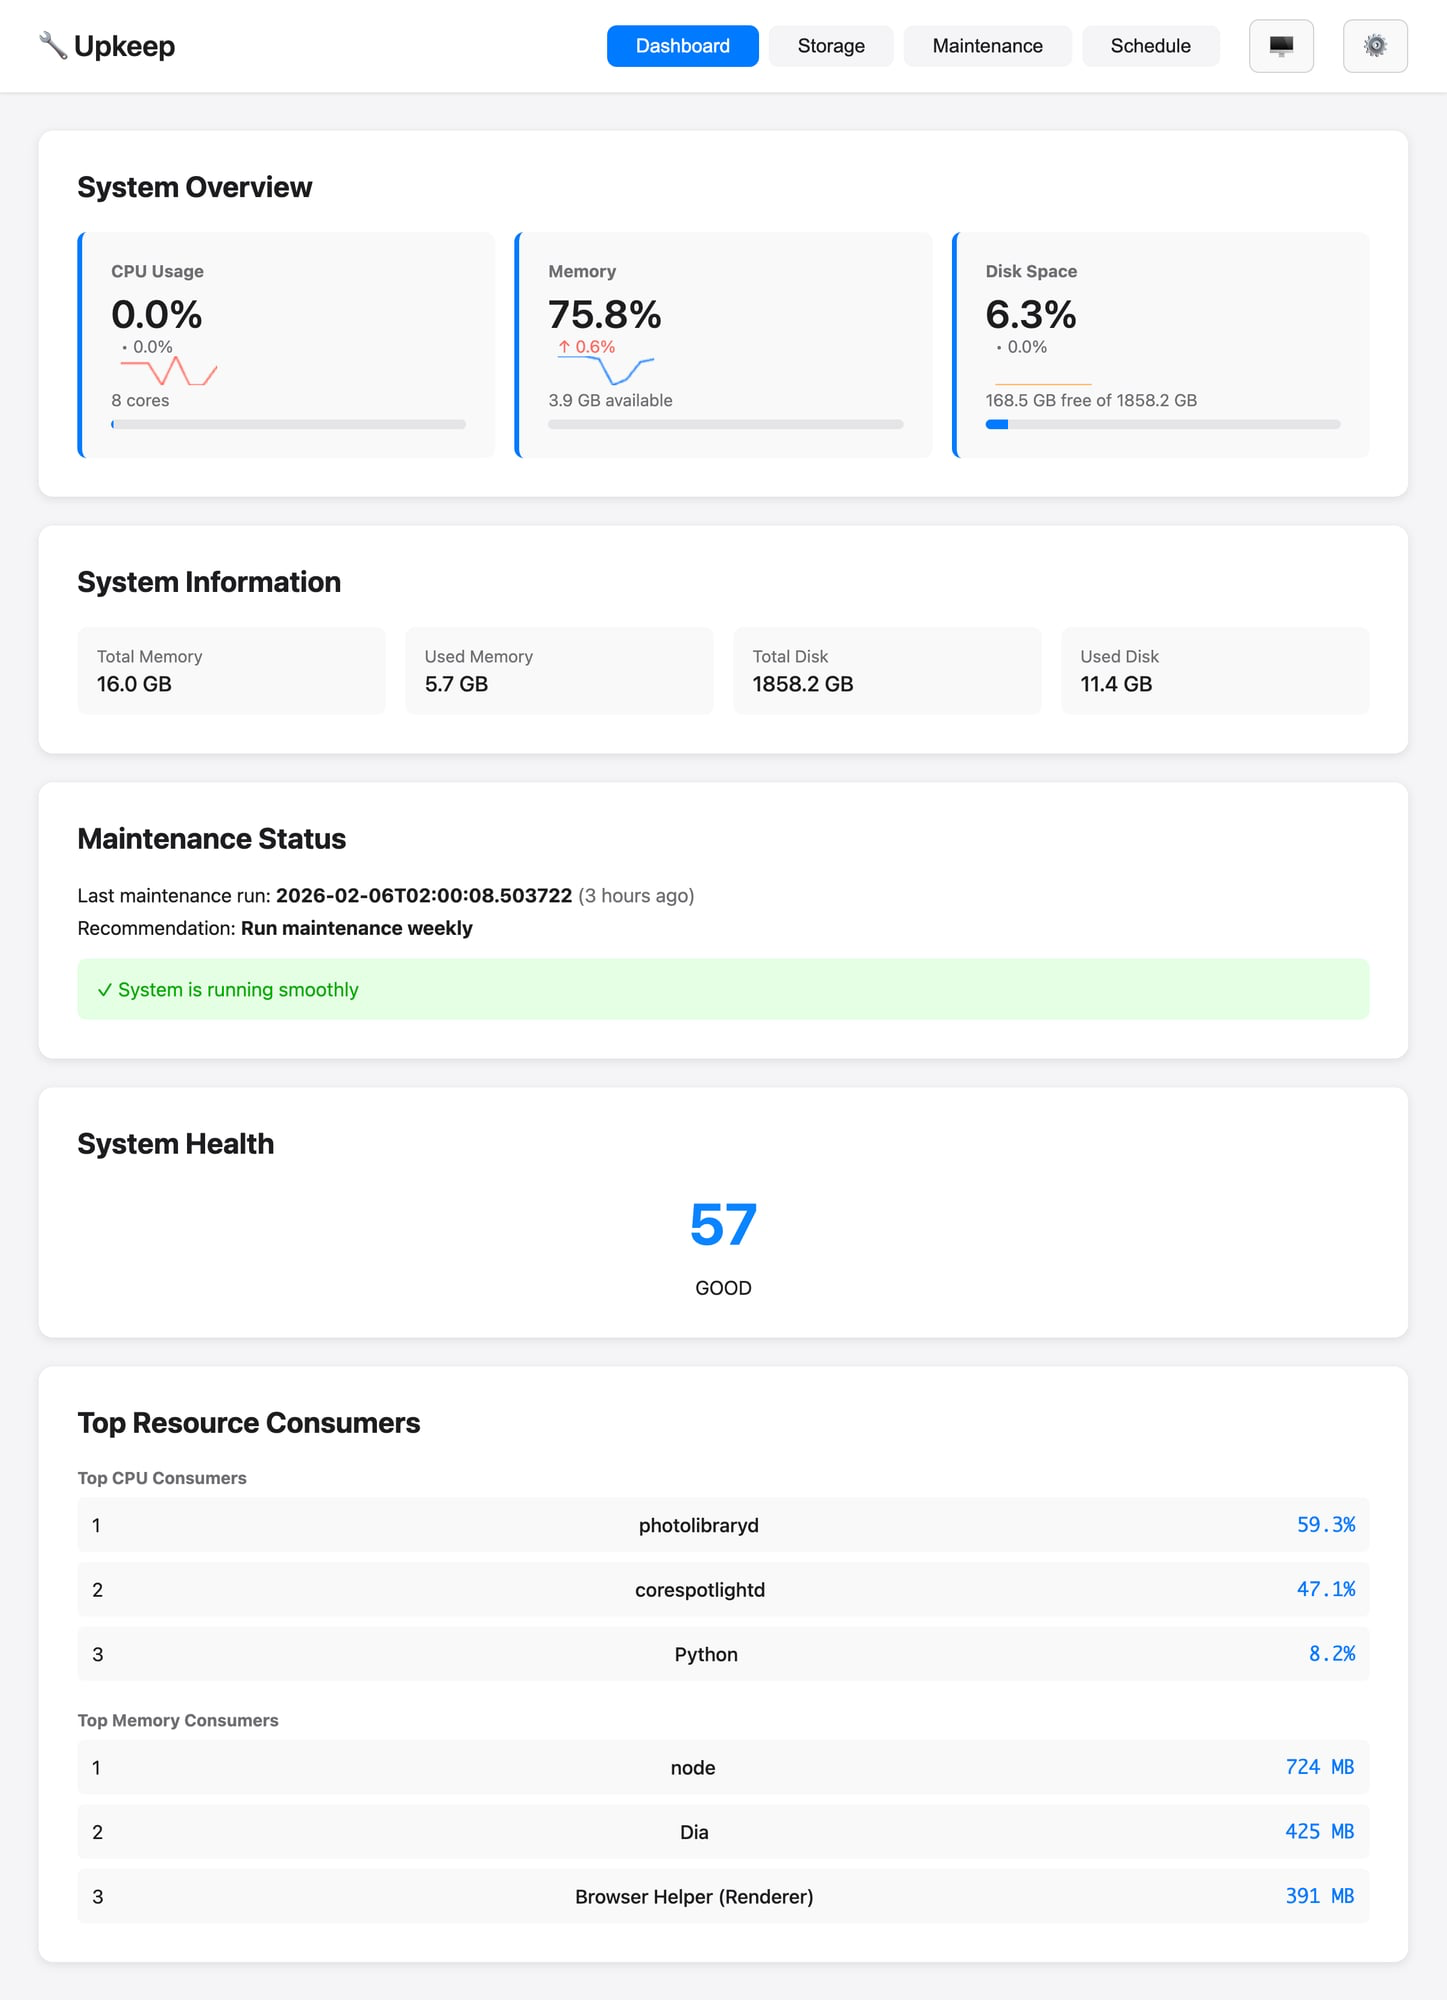
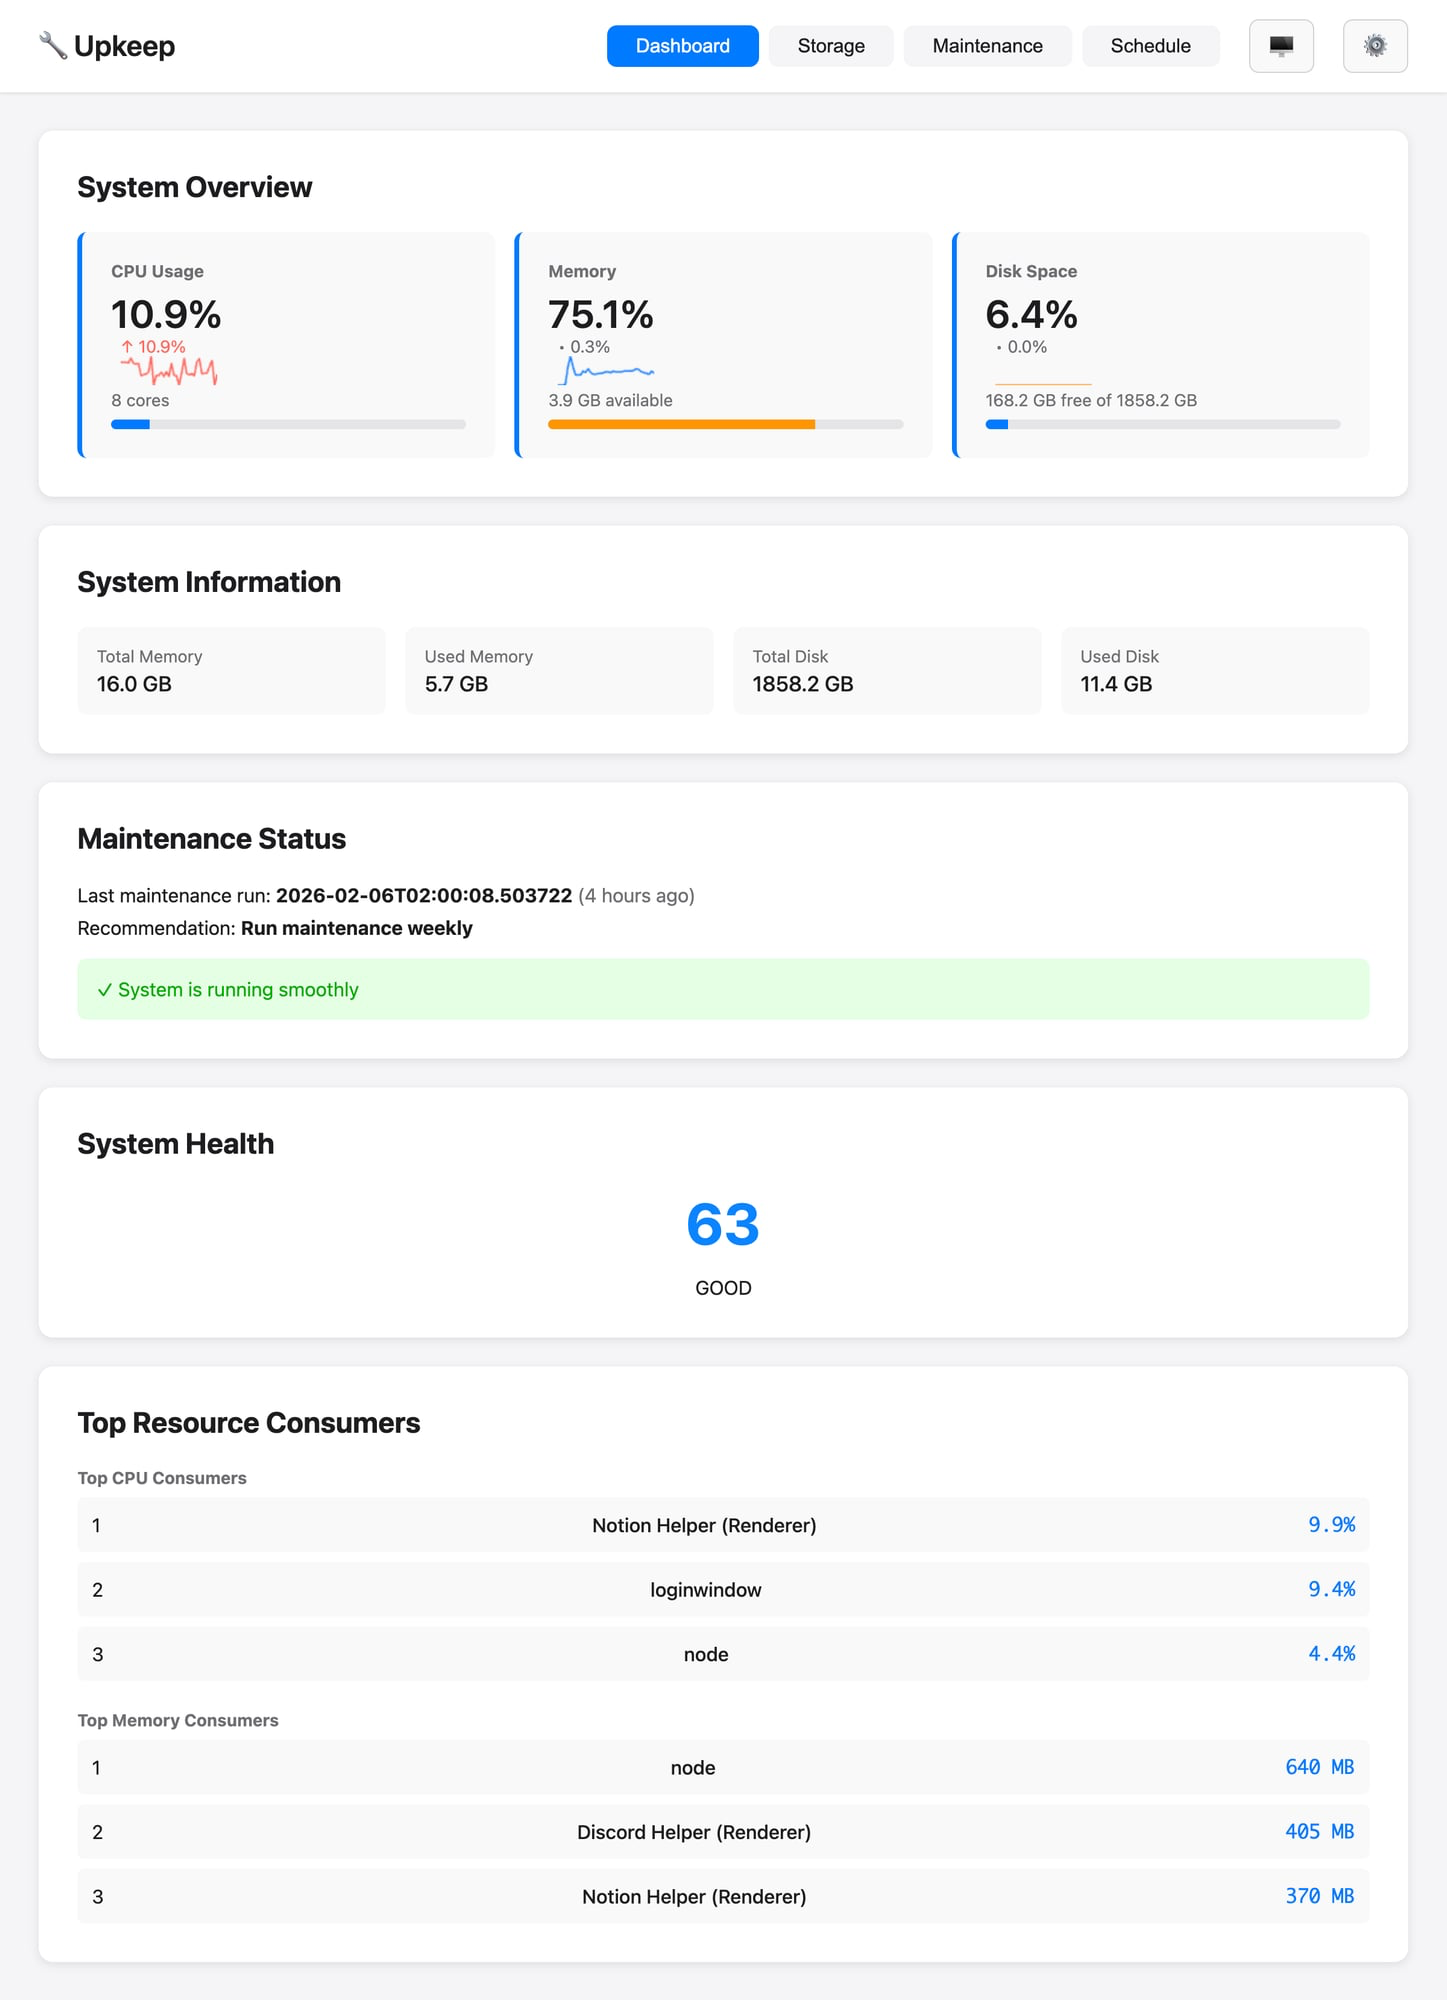
fix: memory progress bar CSS collision with generic .warning class
The .progress-bar-fill.warning class was inheriting padding/margin from
the generic .warning class used for warning message boxes. This caused
the progress bar to have 1rem padding, making it 32px tall instead of
8px, which was then clipped by the parent's overflow:hidden.

Fix: Override padding/margin/border-radius in .progress-bar-fill.warning
and .progress-bar-fill.danger to prevent inheritance from generic classes.

Also updated dashboard screenshot to show the fix.

diff --git a/src/upkeep/web/static/index.html b/src/upkeep/web/static/index.html
@@ -213,8 +213,20 @@
             min-width: 2px;  /* Ensure bar is always visible even at 0% */
         }
 
-        .progress-bar-fill.warning { background: #ff9500; }
-        .progress-bar-fill.danger { background: var(--danger-color); }
+        .progress-bar-fill.warning {
+            background: #ff9500;
+            padding: 0;
+            margin: 0;
+            border-radius: 0;
+            color: inherit;
+        }
+        .progress-bar-fill.danger {
+            background: var(--danger-color);
+            padding: 0;
+            margin: 0;
+            border-radius: 0;
+            color: inherit;
+        }
 
         .info-grid {
             display: grid;
